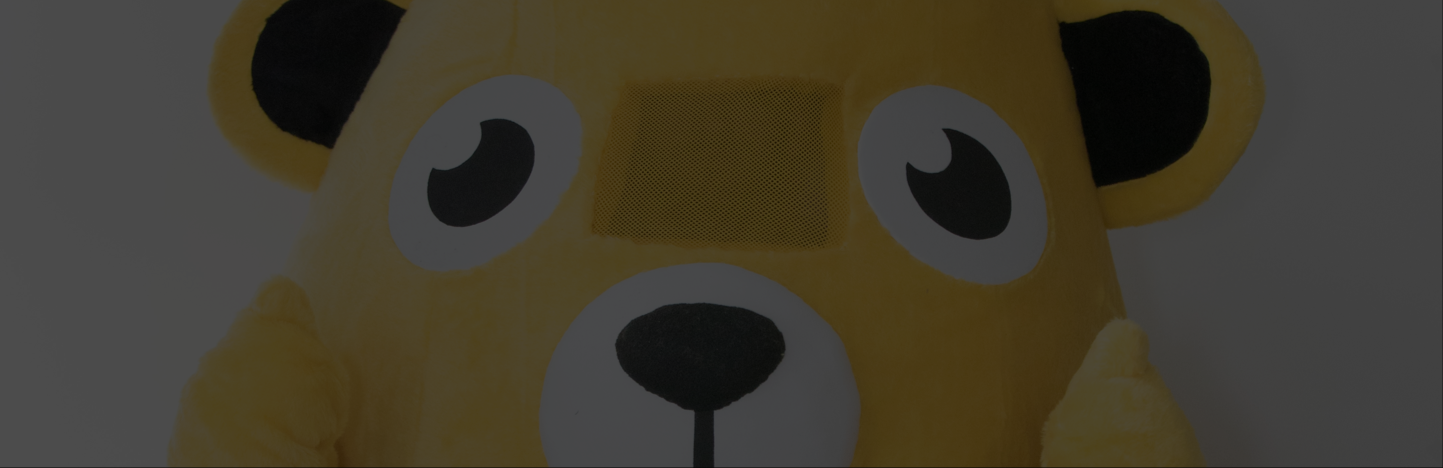
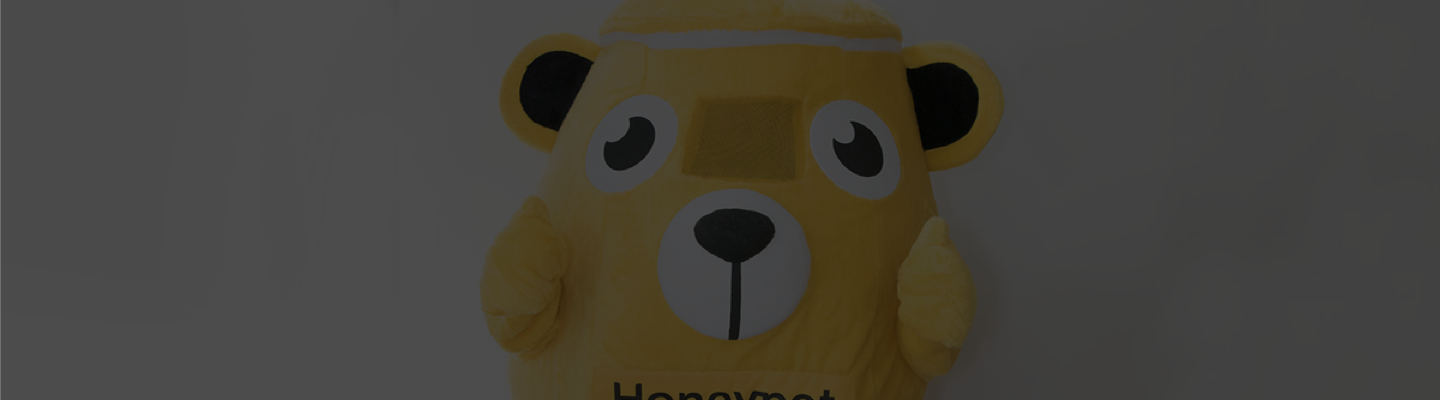
Bg update for first hero

diff --git a/app/styles/components/_landing-header.scss b/app/styles/components/_landing-header.scss
@@ -31,18 +31,9 @@
   &--about {
     padding-top: 172px;
     padding-bottom: 125px;
-    background: url('images/about_bg-mobile.png') no-repeat;
+    background-image: url('images/about_bg.png');
+    background-position: 50% 0;
     background-color: $black-color;
-    background-size: cover;
-
-    @media #{$xs-up} {
-      background-image: url('images/about_bg.png');
-      background-position-x: 50%;
-    }
-
-    @media #{$lg-up} {
-      background-position-x: 0;
-    }
   }
 
   &__heading {
